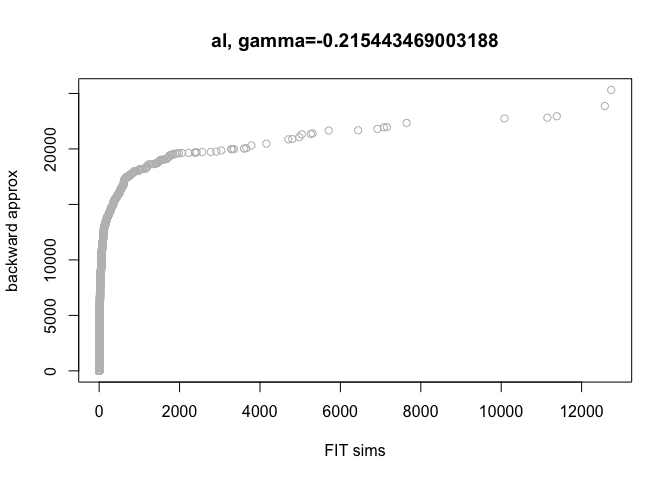
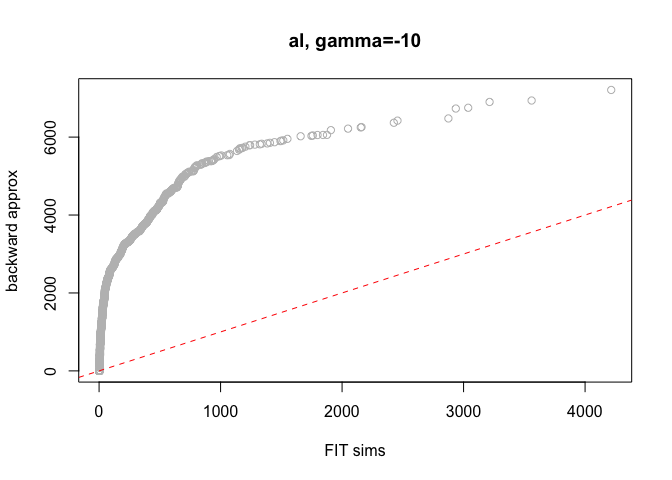
working simulation+expectation scheme - fixed sd term in rnorm

diff --git a/simAlleleAge.md b/simAlleleAge.md
@@ -202,7 +202,7 @@ int alleleAgecpp(float X0, float gamma, int N){
         gen++;
         
         mu = Xt - 0.25*gamma*Xt*(1-Xt)/tanh(0.25*gamma*(1-Xt))/N;
-        Xt = R::rnorm(mu, sqrt(Xt*(1-Xt))*0.5/N);
+        Xt = R::rnorm(mu, sqrt(Xt*(1-Xt)*0.5/N));
     }  
     
     return gen;
@@ -224,6 +224,7 @@ multiple (say, 50) realizations of the FIT simulations.
 
 ``` r
 mean.all.age<-apply(finalXl, 1, function(x) mean(replicate(50, alleleAgecpp(x[1], x[2], N))))
+mean.all.age[mean.all.age==0]<-1
 ```
 
 Obtain 200 samples from simulations for each pair and store it in a text
@@ -244,7 +245,7 @@ text(max(sims.all.age[,123]),0.1, labels=paste0("Xl=",finalXl[123,1],"\ngamma=",
 # plot(ecdf(sims.all.age[,45678]), col="grey40")
 # text(max(sims.all.age[,45678]),0.1, labels=paste0("Xl=",finalXl[45678,1],"\ngamma=",finalXl[45678,2]))
 # 
-# write.matrix(sims.all.age,file=paste0("traindata/sims-",Sys.Date(),".csv"),sep=",")
+write.matrix(sims.all.age,file=paste0("traindata/sims-",Sys.Date(),".csv"),sep=",")
 ```
 
 ![](simAlleleAge_files/figure-gfm/unnamed-chunk-12-1.png)<!-- -->
@@ -252,7 +253,7 @@ text(max(sims.all.age[,123]),0.1, labels=paste0("Xl=",finalXl[123,1],"\ngamma=",
 Writing into a file as training data:
 
 ``` r
-# write.matrix(finalXl,file=paste0("traindata/trip-",Sys.Date(),".csv"),sep=",")
+write.matrix(finalXl,file=paste0("traindata/trip-",Sys.Date(),".csv"),sep=",")
 ```
 
 ## Comparison between theory and empirical draws
@@ -321,7 +322,7 @@ exp.al<-function(p, gamma, N){
     term4<--exp(gamma)*expint_Ei(gamma*(p-1)) + exp(2*gamma)*expint_Ei(-gamma*p) + expint_Ei(gamma*p) - exp(gamma)*expint_Ei(gamma*(1-p)) + 2*exp(gamma)*(log(1-p)-log(p))
     
     
-    return(-2*(term2-term1)/(gamma*expm1(gamma)) - 2*expm1(gamma*p)*(term4-term3)/(gamma*expm1(gamma)*(exp(gamma)-exp(gamma*p))))
+    return(2*(term1-term2)/(gamma*expm1(gamma)) - 2*expm1(gamma*p)*(term4-term3)/(gamma*expm1(gamma)*(exp(gamma)-exp(gamma*p))))
 }
 
 finalXl<-cbind(finalXl, apply(finalXl, 1, function(x){exp.al(x[1], x[2], N)}))
@@ -336,15 +337,16 @@ from theory (points colored based on frequency:
 ``` r
 rbPal <- colorRampPalette(c('grey','black'))
 par(mfrow=c(1,2))
-plot(log(finalXl[,4]),log(mean.all.age),pch=20,xlab="Expected",ylab="Mean of simulated",main="Allele age",col=rbPal(10)[as.numeric(cut(abs(finalXl[,4]),breaks = 20))])
+plot(log(finalXl[,4]),log(mean.all.age),pch=20,xlab="Expected",ylab="Mean of simulated",main="Allele age",col=rbPal(10)[as.numeric(cut(abs(finalXl[,2]),breaks = 20))])
 abline(0,1,col='red',lty=2)
 plot(finalXl[,4],mean.all.age,pch=20,xlab="Expected",ylab="Mean of simulated",main="Allele age",col='grey40')
+abline(0,1,col='red',lty=2)
 ```
 
 ![](simAlleleAge_files/figure-gfm/unnamed-chunk-15-1.png)<!-- -->
 
 ``` r
-plot(finalXl[,4],all.age,pch=20,col='grey40',xlab='Expected',ylab='Single draw')
+plot(log(finalXl[,4]),log(all.age),pch=20,col='grey40',xlab='Expected',ylab='Single draw')
 abline(0,1,col='red',lty=2)
 ```
 
@@ -527,41 +529,56 @@ Reading in simulated data from before:
 newfinalXl<-read.csv("traindata/trip-2021-08-25.csv")
 ```
 
+Method: For a given freq in the FIT sims find a freq(s) that is close to
+the given and compare the allele ages between the two. Do this
+separately for each selection coefficient \(\gamma\).
+
+``` r
+# comparisons for gamma=-10
+didx<-matrix(nrow=1000,ncol=2)
+for(i in 1:1000){
+    startidx<-6000 # for gamma=-10
+    didx[i,1]<-which.min(abs(newfinalXl[newfinalXl$gamma==-10,1]-finalXl[i,1])) + startidx
+    didx[i,2]<-min(abs(newfinalXl[newfinalXl$gamma==-10,1]-finalXl[i,1]))
+}
+plot(finalXl[finalXl$gamma==gamma[7],3],newfinalXl[didx,3],pch=20,xlab='Backward approx',ylab='FIT',main='Estimated allele age for similar freq & gamma=-10',col=rbPal(10)[cut(log(didx[,2]),breaks = 10)])
+```
+
 ``` r
 finalXl<-as.data.frame(finalXl)
 plot(sort(newfinalXl[newfinalXl$gamma==-10,1]), sort(finalXl[finalXl$gamma==gamma[7],1]), col='grey', main=paste0("Xl, gamma=",gamma[7]), ylab="backward approx", xlab="FIT sims")
 abline(0,1,col='red',lty=2)
 ```
 
-![](simAlleleAge_files/figure-gfm/unnamed-chunk-27-1.png)<!-- -->
+![](simAlleleAge_files/figure-gfm/unnamed-chunk-28-1.png)<!-- -->
 
 ``` r
 plot(sort(newfinalXl[newfinalXl$gamma==-10,3]), sort(finalXl[finalXl["gamma"]==gamma[7],3]), col='grey', main=paste0("al, gamma=",gamma[7]), ylab="backward approx", xlab="FIT sims")
 abline(0,1,col='red',lty=2)
 ```
 
-![](simAlleleAge_files/figure-gfm/unnamed-chunk-27-2.png)<!-- -->
+![](simAlleleAge_files/figure-gfm/unnamed-chunk-28-2.png)<!-- -->
 
 ``` r
 plot(sort(newfinalXl[newfinalXl$gamma==-0.2154435,1]), sort(finalXl[finalXl$gamma==gamma[17],1]), col='grey', main=paste0("Xl, gamma=",gamma[17]), ylab="backward approx", xlab="FIT sims")
 ```
 
-![](simAlleleAge_files/figure-gfm/unnamed-chunk-28-1.png)<!-- -->
+![](simAlleleAge_files/figure-gfm/unnamed-chunk-29-1.png)<!-- -->
 
 ``` r
 plot(sort(newfinalXl[newfinalXl$gamma==-0.2154435,3]), sort(finalXl[finalXl$gamma==gamma[17],3]), col='grey', main=paste0("al, gamma=",gamma[17]), ylab="backward approx", xlab="FIT sims")
 ```
 
-![](simAlleleAge_files/figure-gfm/unnamed-chunk-28-2.png)<!-- -->
+![](simAlleleAge_files/figure-gfm/unnamed-chunk-29-2.png)<!-- -->
 
 ``` r
 hist(finalXl[finalXl$Xl>0.1&finalXl$Xl<0.2&finalXl$gamma==gamma[7],3],main='bakward approx. age')
 ```
 
-![](simAlleleAge_files/figure-gfm/unnamed-chunk-29-1.png)<!-- -->
+![](simAlleleAge_files/figure-gfm/unnamed-chunk-30-1.png)<!-- -->
 
 ``` r
 hist(newfinalXl[newfinalXl$Xl>0.1&newfinalXl$Xl<0.2&newfinalXl$gamma==-10,3],col='grey',main='FIT sim. age')
 ```
 
-![](simAlleleAge_files/figure-gfm/unnamed-chunk-29-2.png)<!-- -->
+![](simAlleleAge_files/figure-gfm/unnamed-chunk-30-2.png)<!-- -->
